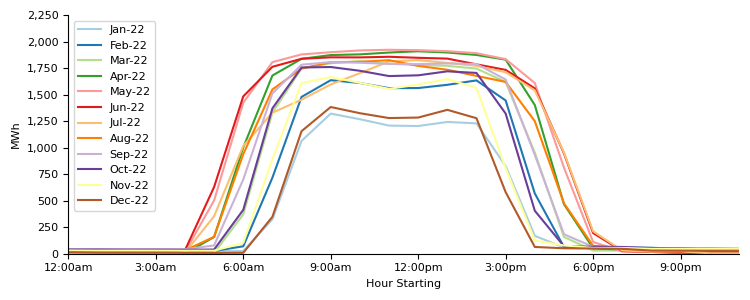
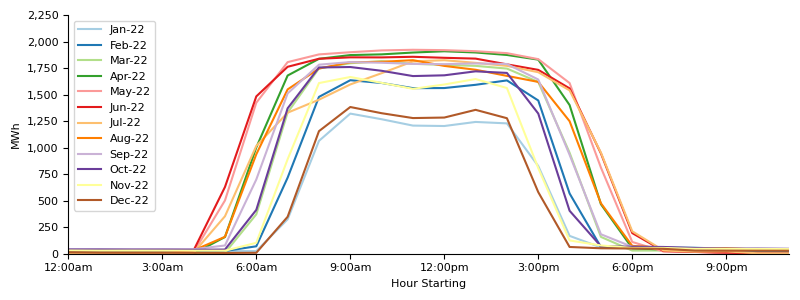
small updates to chart formatting

diff --git a/post4_solar.py b/post4_solar.py
@@ -18,6 +18,15 @@ import matplotlib.pyplot as plt
 import matplotlib.ticker as ticker
 import matplotlib.dates as pltdates
 
+def keyGenerationStats(hourlyValues):
+    stats = {}
+    stats["maxGen"] = max(hourlyValues)
+    stats["totalGen"] = sum(hourlyValues)
+    stats["equivHours"] = stats["totalGen"]/stats["maxGen"]
+    stats["activeHours"] = sum([1 if x > 0.1*stats["maxGen"] else 0 for x in hourlyValues])
+    stats["strongHours"] = sum([1 if x > 0.6*stats["maxGen"] else 0 for x in hourlyValues])
+    print(stats)
+
 def dailyGenerationChart(eiag: EIAGeneration, start: datetime, end: datetime, path: str):
     dates, totals = eiag.dailyTotals(start, end)
     dates2, totals2 = eiag.topNOnly(start, end, N=5)
@@ -79,7 +88,6 @@ if __name__ == "__main__":
     series_labels = []
 
     for month in range(nMonths):
-        print(month)
         s = start + relativedelta(months = month)
         e = s + relativedelta(months = +1)
         _, avgs = eiag.averageDayInPeriod(s, e)
@@ -97,7 +105,7 @@ if __name__ == "__main__":
     # chart 2: first do the december averages
     
 
-    for month in [6, 12]:
+    for month in [12, 6]:
        # month_name = datetime(2022, month, 1).strftime("%B")
         HourlyChart.hourlyLineChart(x_values,
                                     [y_values_list[month-1], y_values_list_filtered[month-1]],
@@ -106,8 +114,13 @@ if __name__ == "__main__":
                                     ["lightblue", "blue"],
                                     f"post4/post4_month{month}_hourly.png",
                                     title = None,
-                                    x_axis_label = "Hour Starting",
+                                    x_axis_label = "Hour Starting (Standard Time)",
                                     annotate = 1)
+        
+        keyGenerationStats(y_values_list_filtered[month-1])
+        keyGenerationStats(y_values_list[month-1])
+
+        
                             
     y_axis_label = "MWh"                            
 

diff --git a/hourlyChart.py b/hourlyChart.py
@@ -17,7 +17,7 @@ class HourlyChart:
         return hm + ("am" if (x%24)<12 else "pm")
     
     def prepHourlyChart(yrange: List[float]):
-        fig, ax = plt.subplots(figsize = (7.5, 3))
+        fig, ax = plt.subplots(figsize = (8, 3))
         ax.set_xlim([0, 23])
         ax.set_ylim(yrange)
 
@@ -53,8 +53,7 @@ class HourlyChart:
         if annotate is not None:
             for a, b in zip(x_values, y_values_list[annotate]):
                 if b > 0.1*max(y_values_list[annotate]):
-                    print("hour on chart:" + str(a) + " ; value: " + str(b))
-                    ax.annotate(f"{int(round(b))}", (a - 0.5 + (a-11)/18, b + 150), size = 7)
+                    ax.annotate(f"{int(round(b))}", (a - 0.5 + (a-11)/18, b + 150), size = 8)
 
         
         ax.legend(loc = "upper left")
